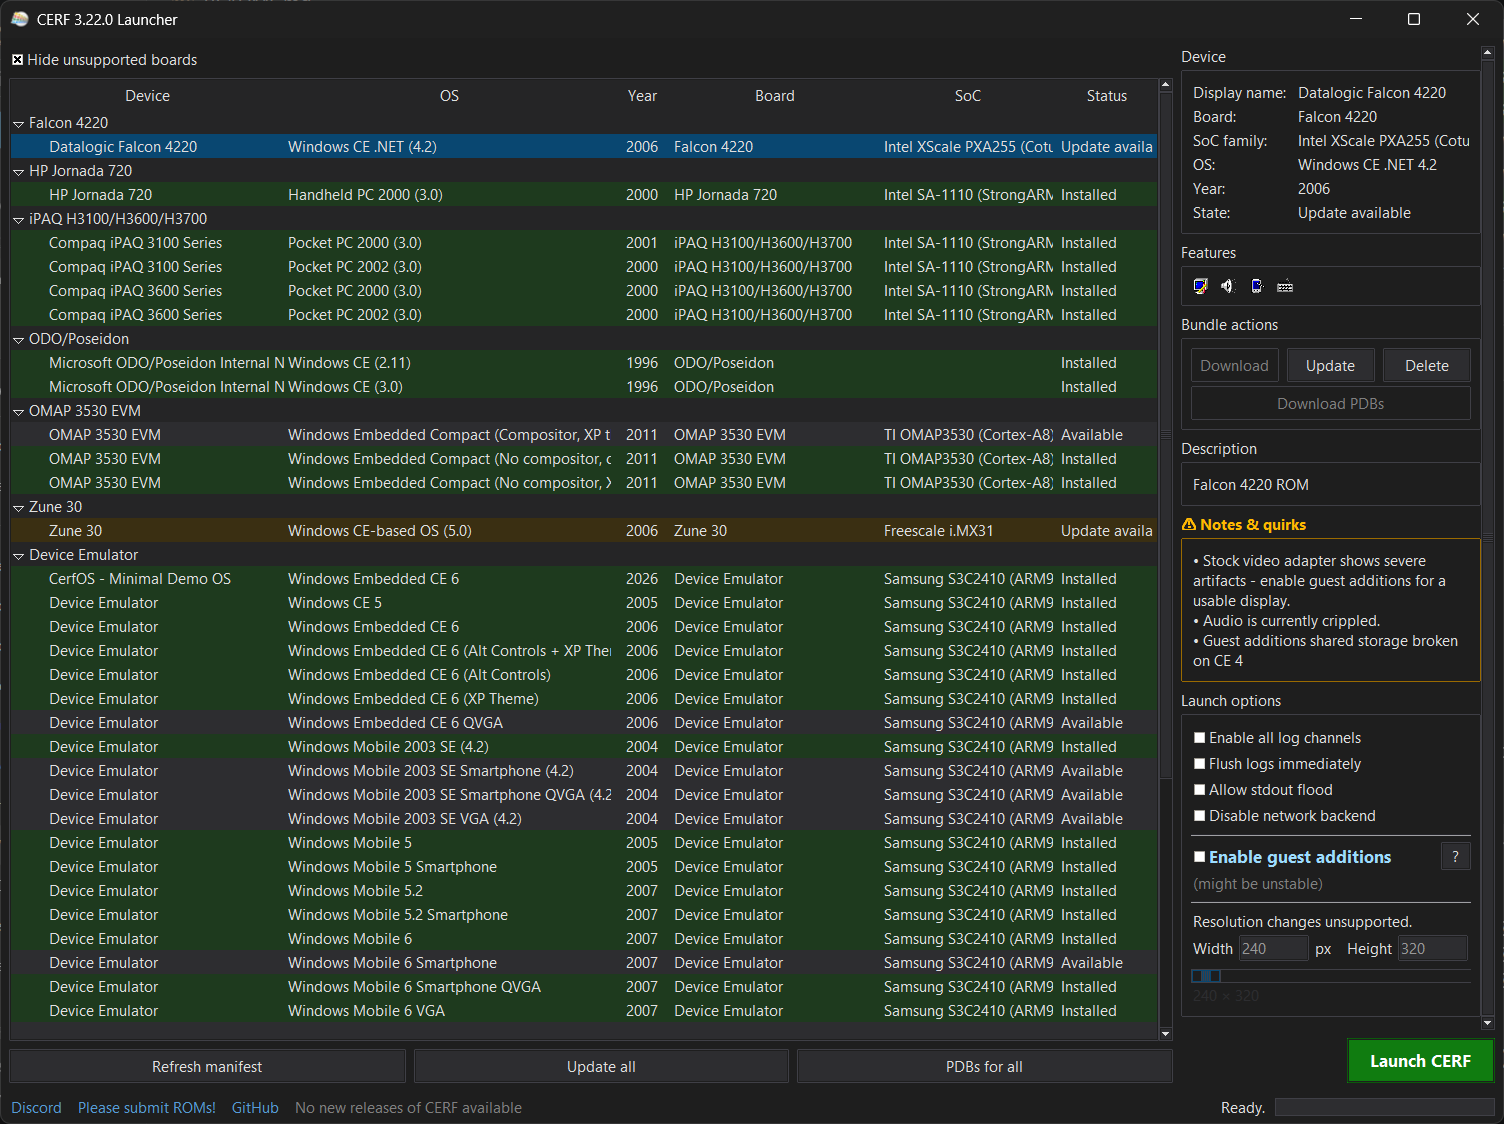
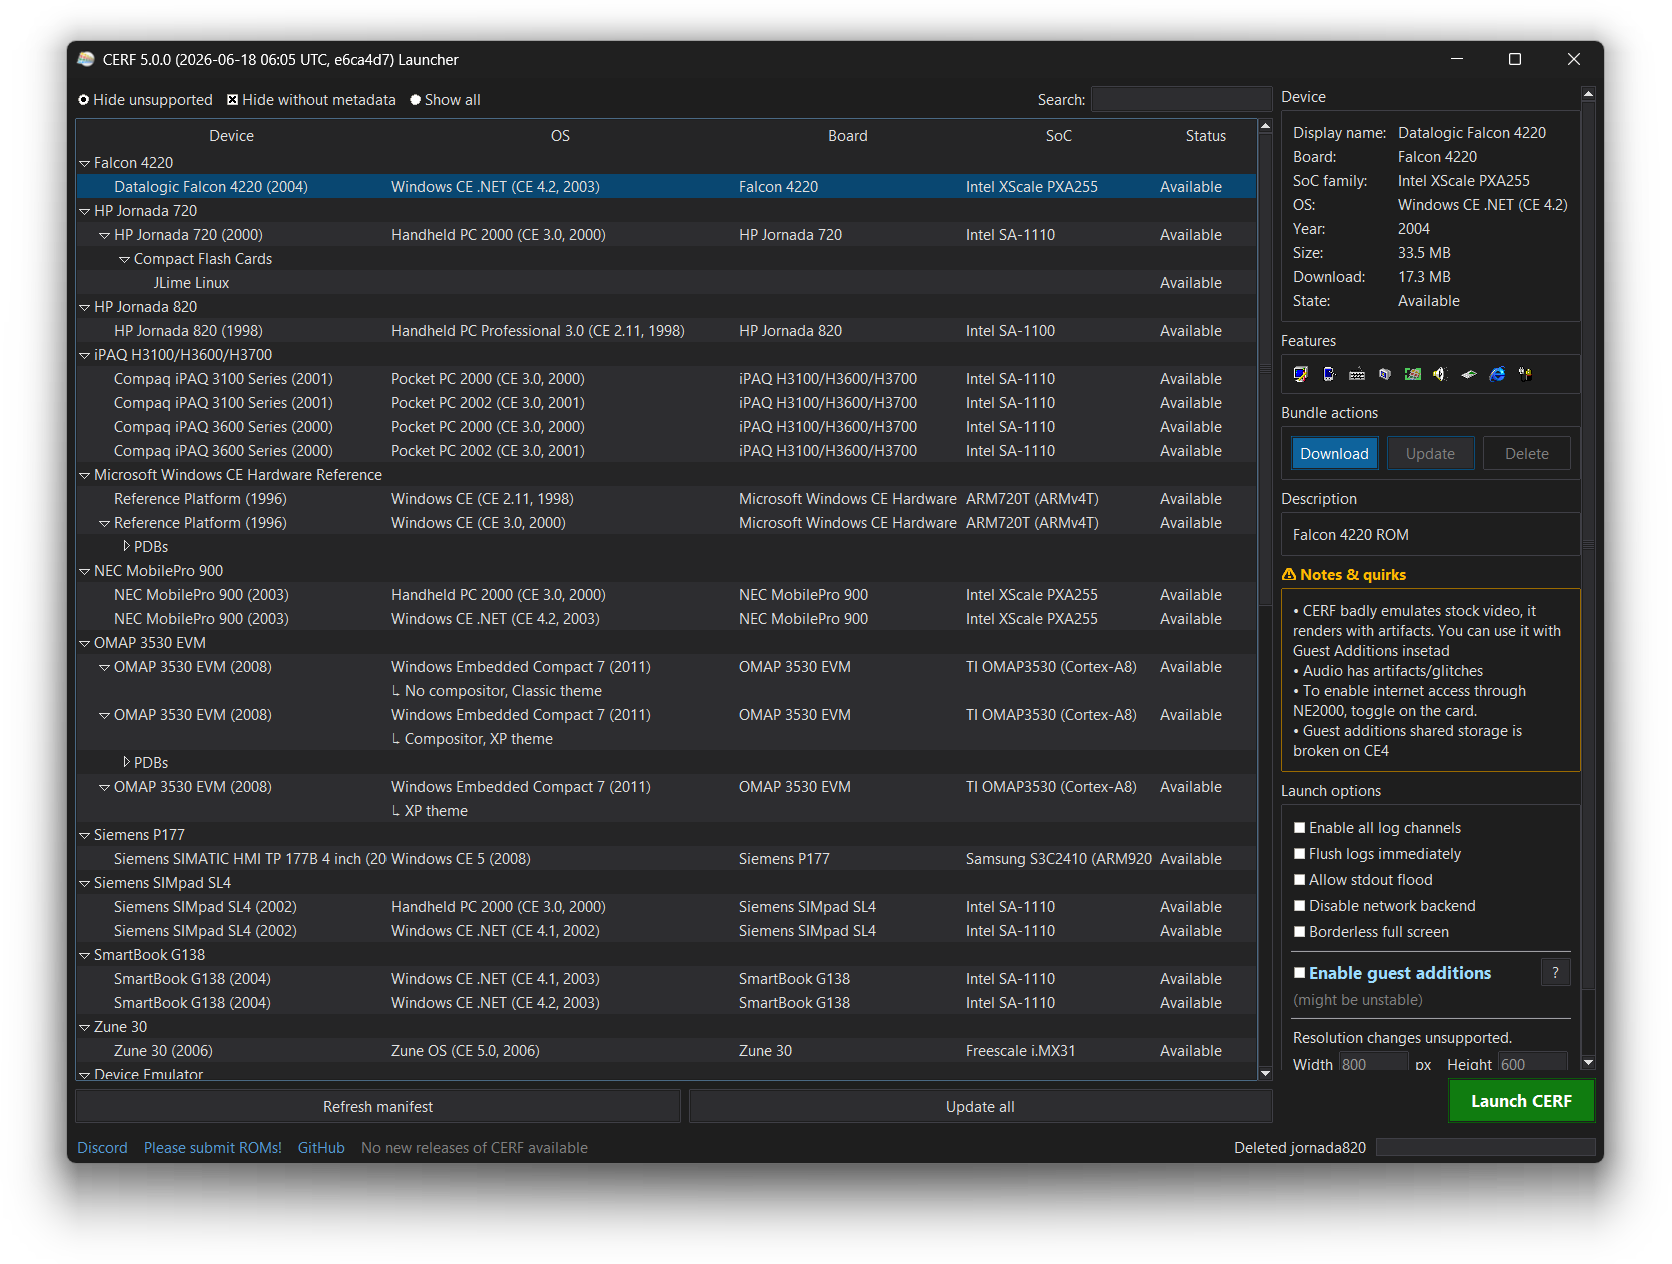
guest-additions: configurable display DPI
cerf_guest reports display DPI by priority: emulator override
(kFbRegLogicalDpi), ROM registry LogicalPixelsX/Y, then 96. Set the override
via --screen-dpi, cerf.json board.configurable_screen_dpi, the in-emulator
change-resolution dialog (new Display DPI box), or the launcher's Override
DPI control.

diff --git a/launcher/launch_options.py b/launcher/launch_options.py
@@ -7,7 +7,7 @@ from tkinter import ttk
 from typing import List, Optional
 
 from device_state import DeviceBundle
-from ui_dialogs import show_error, show_guest_additions_help
+from ui_dialogs import show_error, show_guest_additions_help, show_dpi_help
 from ui_theme import BG_FIELD, FG_DIM
 
 
@@ -40,6 +40,11 @@ RES_PRESETS = [
     (3440, 1440),               #  UW-QHD
     (3840, 2160),               #  4K UHD
 ]
+
+# DPI override slider bounds. The entry stays free-form so any value (including
+# extreme ones) is typable past the slider's range.
+DPI_SLIDER_MIN = 48
+DPI_SLIDER_MAX = 480
 
 
 class LaunchOptionsPanel:
@@ -115,6 +120,36 @@ class LaunchOptionsPanel:
         self.var_height.trace_add("write", self._on_res_text_changed)
         self._sync_slider_to_text()
 
+        ttk.Separator(opts).grid(row=10, column=0, columnspan=3, sticky="ew", pady=6)
+        self.var_override_dpi = tk.BooleanVar(value=False)
+        self.var_dpi = tk.StringVar(value="96")
+        dpi_head = ttk.Frame(opts)
+        dpi_head.grid(row=11, column=0, columnspan=3, sticky="ew")
+        dpi_head.columnconfigure(0, weight=1)
+        self.dpi_check = ttk.Checkbutton(dpi_head, text="Override DPI",
+                                         variable=self.var_override_dpi,
+                                         command=self._refresh_dpi_state)
+        self.dpi_check.grid(row=0, column=0, sticky="w")
+        self.dpi_help_btn = ttk.Button(dpi_head, text="?", width=2, style="Help.TButton",
+                                       command=lambda: show_dpi_help(self._window))
+        self.dpi_help_btn.grid(row=0, column=1, sticky="e")
+
+        dpi_fields = ttk.Frame(opts)
+        dpi_fields.grid(row=12, column=0, columnspan=3, sticky="ew", pady=(2, 0))
+        dpi_fields.columnconfigure(3, weight=1)
+        ttk.Label(dpi_fields, text="DPI").grid(row=0, column=0, sticky="w")
+        self.dpi_entry = ttk.Entry(dpi_fields, textvariable=self.var_dpi, width=8,
+                                   validate="key", validatecommand=numeric_vcmd)
+        self.dpi_entry.grid(row=0, column=1, sticky="w", padx=(4, 12))
+        self._dpi_sync_guard = False
+        self.dpi_slider = ttk.Scale(dpi_fields, from_=DPI_SLIDER_MIN, to=DPI_SLIDER_MAX,
+                                    orient="horizontal", style="Res.Horizontal.TScale",
+                                    command=self._on_dpi_slider)
+        self.dpi_slider.grid(row=1, column=0, columnspan=4, sticky="ew", pady=(8, 0))
+        self.var_dpi.trace_add("write", self._on_dpi_text_changed)
+        self._sync_dpi_slider_to_text()
+        self._refresh_dpi_state()
+
     def set_device(self, device: Optional[DeviceBundle]) -> None:
         self._device = device
         self.refresh_resolution_state()
@@ -139,6 +174,11 @@ class LaunchOptionsPanel:
             if h is None:
                 return None
             argv += [f"--screen-width={w}", f"--screen-height={h}"]
+        if guest_additions and self.var_override_dpi.get():
+            dpi = self._dpi_value()
+            if dpi is None:
+                return None
+            argv.append(f"--screen-dpi={dpi}")
         return argv
 
     def _is_optional_uint(self, value: str) -> bool:
@@ -186,6 +226,7 @@ class LaunchOptionsPanel:
         self.res_preset_label.config(foreground=FG_DIM if enabled else BG_FIELD)
 
     def refresh_resolution_state(self) -> None:
+        self._refresh_dpi_state()
         device = self._device
         if self.var_guest_additions.get():
             self.res_note.config(text="CERF display driver resolution:")
@@ -246,3 +287,49 @@ class LaunchOptionsPanel:
                 self.res_preset_label.config(text=f"Custom — {w} × {h}")
         finally:
             self._res_sync_guard = False
+
+    def _refresh_dpi_state(self) -> None:
+        ga = self.var_guest_additions.get()
+        self.dpi_check.config(state="normal" if ga else "disabled")
+        self.dpi_help_btn.config(state="normal" if ga else "disabled")
+        fields = "normal" if (ga and self.var_override_dpi.get()) else "disabled"
+        self.dpi_entry.config(state=fields)
+        self.dpi_slider.config(state=fields)
+
+    def _dpi_value(self) -> Optional[int]:
+        raw = self.var_dpi.get().strip()
+        try:
+            value = int(raw, 10)
+        except ValueError:
+            value = 0
+        if value < 1:
+            show_error(self._window, "Invalid DPI",
+                       "DPI must be a positive whole number.")
+            self.dpi_entry.focus_set()
+            return None
+        return value
+
+    def _on_dpi_slider(self, value: str) -> None:
+        if self._dpi_sync_guard:
+            return
+        self._dpi_sync_guard = True
+        try:
+            self.var_dpi.set(str(int(round(float(value)))))
+        finally:
+            self._dpi_sync_guard = False
+
+    def _on_dpi_text_changed(self, *_args: object) -> None:
+        if self._dpi_sync_guard:
+            return
+        self._sync_dpi_slider_to_text()
+
+    def _sync_dpi_slider_to_text(self) -> None:
+        try:
+            dpi = int(self.var_dpi.get().strip())
+        except ValueError:
+            return
+        self._dpi_sync_guard = True
+        try:
+            self.dpi_slider.set(max(DPI_SLIDER_MIN, min(DPI_SLIDER_MAX, dpi)))
+        finally:
+            self._dpi_sync_guard = False

diff --git a/cerf/host/change_resolution_dialog.cpp b/cerf/host/change_resolution_dialog.cpp
@@ -22,21 +22,23 @@ namespace {
 constexpr wchar_t kClass[] = L"CerfChangeResolutionDlg";
 
 constexpr int kClientW = 380;
-constexpr int kClientH = 300;
+constexpr int kClientH = 380;
 
 /* Group frames (caption sits on the top edge). */
 constexpr RECT kGroupRes   = { 14, 12,  366, 82  };
-constexpr RECT kGroupReset = { 14, 96,  366, 244 };
+constexpr RECT kGroupDpi   = { 14, 92,  366, 150 };
+constexpr RECT kGroupReset = { 14, 160, 366, 322 };
 
 constexpr uint32_t kMinDim = 64;
 constexpr uint32_t kMaxDim = 8192;
 
 enum : int {
-    IDC_W_EDIT  = 4001,
-    IDC_H_EDIT  = 4002,
-    IDC_RB_NONE = 4003,
-    IDC_RB_SOFT = 4004,
-    IDC_RB_HARD = 4005,
+    IDC_W_EDIT   = 4001,
+    IDC_H_EDIT   = 4002,
+    IDC_RB_NONE  = 4003,
+    IDC_RB_SOFT  = 4004,
+    IDC_RB_HARD  = 4005,
+    IDC_DPI_EDIT = 4006,
 };
 
 }  /* namespace */
@@ -73,15 +75,19 @@ void ChangeResolutionDialog::BuildControls(HWND hwnd) {
     HWND he = mk(L"EDIT", L"", WS_BORDER | WS_TABSTOP | ES_NUMBER,
                  256, 39, 90, 24, IDC_H_EDIT);
 
+    mk(L"STATIC", L"DPI:", 0, 28, 121, 50, 18, 0);
+    HWND de = mk(L"EDIT", L"", WS_BORDER | WS_TABSTOP | ES_NUMBER,
+                 84, 118, 90, 24, IDC_DPI_EDIT);
+
     mk(L"STATIC",
        L"Windows CE ≤ 3 needs at least a soft reset to use the new "
-       L"resolution.",
-       0, 28, 116, 324, 40, 0);
+       L"resolution. A DPI change requires a reset.",
+       0, 28, 178, 324, 52, 0);
     mk(L"BUTTON", L"Do not reset",
-       BS_OWNERDRAW | WS_GROUP | WS_TABSTOP, 28, 162, 320, 24, IDC_RB_NONE);
-    mk(L"BUTTON", L"Soft reset", BS_OWNERDRAW | WS_TABSTOP, 28, 190, 320, 24,
+       BS_OWNERDRAW | WS_GROUP | WS_TABSTOP, 28, 236, 320, 24, IDC_RB_NONE);
+    mk(L"BUTTON", L"Soft reset", BS_OWNERDRAW | WS_TABSTOP, 28, 264, 320, 24,
        IDC_RB_SOFT);
-    mk(L"BUTTON", L"Hard reset", BS_OWNERDRAW | WS_TABSTOP, 28, 218, 320, 24,
+    mk(L"BUTTON", L"Hard reset", BS_OWNERDRAW | WS_TABSTOP, 28, 292, 320, 24,
        IDC_RB_HARD);
 
     mk(L"BUTTON", L"OK", BS_DEFPUSHBUTTON | WS_TABSTOP,
@@ -100,12 +106,18 @@ void ChangeResolutionDialog::BuildControls(HWND hwnd) {
     _snwprintf_s(buf, _TRUNCATE, L"%u", fb.Height());
     SetWindowTextW(he, buf);
 
+    auto& devcfg = emu_.Get<DeviceConfig>();
+    _snwprintf_s(buf, _TRUNCATE, L"%u",
+                 devcfg.screen_dpi ? devcfg.screen_dpi : 96u);
+    SetWindowTextW(de, buf);
+
     reset_choice_ = 0;
 }
 
 void ChangeResolutionDialog::PaintGroups(HDC dc) {
     const bool dark = emu_.Get<HostDarkMode>().IsDark();
     PaintGroup(dc, kGroupRes,   L"Resolution",   dark);
+    PaintGroup(dc, kGroupDpi,   L"Display DPI",  dark);
     PaintGroup(dc, kGroupReset, L"Reset device", dark);
 }
 
@@ -200,10 +212,19 @@ bool ChangeResolutionDialog::Apply(HWND hwnd) {
         return false;
     }
 
+    BOOL okd = FALSE;
+    const uint32_t dpi = GetDlgItemInt(hwnd, IDC_DPI_EDIT, &okd, FALSE);
+    if (!okd || dpi < 1) {
+        MessageBoxW(hwnd, L"Enter a DPI value of at least 1.",
+                    L"Change resolution", MB_OK | MB_ICONWARNING);
+        return false;
+    }
+
     auto& dc = emu_.Get<DeviceConfig>();
     dc.board_configurable_screen_width    = w;
     dc.board_configurable_screen_height   = h;
     dc.board_configurable_screen_explicit = true;
+    dc.screen_dpi                         = dpi;
 
     auto& win = emu_.Get<HostWindow>();
     if (reset_choice_ == 1) {

diff --git a/ce_apps/cerf_guest/cerf_ddgpe.cpp b/ce_apps/cerf_guest/cerf_ddgpe.cpp
@@ -201,13 +201,33 @@ BOOL CerfDDGPE::IsPaletteSettable() {
     return (g_FbBpp <= 8);
 }
 
+static ULONG CerfReadGpeDpi(const wchar_t* value_name) {
+    HKEY hk;
+    ULONG dpi = 0;
+    if (RegOpenKeyExW(HKEY_LOCAL_MACHINE, L"Drivers\\Display\\GPE", 0, 0, &hk)
+        == ERROR_SUCCESS) {
+        DWORD type = 0, data = 0, sz = sizeof(data);
+        if (RegQueryValueExW(hk, value_name, NULL, &type, (LPBYTE)&data, &sz)
+                == ERROR_SUCCESS && type == REG_DWORD)
+            dpi = data;
+        RegCloseKey(hk);
+    }
+    return dpi;
+}
+
 BOOL CerfDDGPE::GetScreenDimensions(GPEScreenProps* pProps) {
     CERF_LOG_DEV("cerf_guest: GPE::GetScreenDimensions");
     if (!pProps) return FALSE;
-    pProps->ulHorzSize   = (g_FbWidth  * 254) / 96 / 10;
-    pProps->ulVertSize   = (g_FbHeight * 254) / 96 / 10;
-    pProps->ulLogPixelsX = 96;
-    pProps->ulLogPixelsY = 96;
+    /* DPI priority: 1) emulator override (kFbRegLogicalDpi), 2) the ROM's own
+       registry DPI (what the stock GPE lib would read), 3) 96. */
+    ULONG dpiX = g_FbDpi ? g_FbDpi : CerfReadGpeDpi(L"LogicalPixelsX");
+    ULONG dpiY = g_FbDpi ? g_FbDpi : CerfReadGpeDpi(L"LogicalPixelsY");
+    if (!dpiX) dpiX = 96;
+    if (!dpiY) dpiY = 96;
+    pProps->ulHorzSize   = (g_FbWidth  * 254) / dpiX / 10;
+    pProps->ulVertSize   = (g_FbHeight * 254) / dpiY / 10;
+    pProps->ulLogPixelsX = dpiX;
+    pProps->ulLogPixelsY = dpiY;
     pProps->ulAspectX    = 36;
     pProps->ulAspectY    = 36;
     pProps->ulAspectXY   = 51;

diff --git a/launcher/ui_dialogs.py b/launcher/ui_dialogs.py
@@ -87,6 +87,23 @@ def confirm_rom_license(parent: tk.Misc, display_name: str) -> bool:
     )
 
 
+def show_dpi_help(parent: tk.Misc) -> None:
+    show_info(
+        parent,
+        "Display DPI override",
+        "Overrides the logical DPI (pixels-per-inch) the CERF guest display "
+        "driver reports to the OS. It changes what the OS believes the screen "
+        "density is — it most likely causes rendering artifacts and broken "
+        "graphics.\n\n"
+        "Known behaviour:\n"
+        "• Restores VGA (2×) mode on Device Emulator ROMs.\n"
+        "• Scales readable / printable text (documents, web pages) on older "
+        "CE versions.\n"
+        "• Works best on Alt-Controls (touch-style) ROMs.\n\n"
+        "Takes effect on the next guest reset. Requires guest additions."
+    )
+
+
 def show_guest_additions_help(parent: tk.Misc) -> None:
     """Show the Guest Additions feature banner in a borderless-content window.
     Falls back to nothing if the banner asset can't be located."""

diff --git a/cerf/core/config_loader.cpp b/cerf/core/config_loader.cpp
@@ -96,6 +96,12 @@ void LoadBoard(const json& root, DeviceConfig& config, const std::string& path) 
         config.board_configurable_screen_height = (uint32_t)n;
         config.board_configurable_screen_explicit = true;
     }
+    if (b.contains("configurable_screen_dpi")) {
+        int n = ReadOptInt(b, "configurable_screen_dpi", path, "board");
+        if (n < 1)
+            Fatal(path, "board.configurable_screen_dpi must be >= 1");
+        config.screen_dpi = (uint32_t)n;
+    }
 }
 
 /* Top-level device-feature flags (not board hardware): guest additions and
@@ -310,6 +316,10 @@ void ConfigLoader::LoadInto(DeviceConfig& config) {
             config.board_configurable_screen_height = (uint32_t)n;
             config.board_configurable_screen_explicit = true;
             config.adopt_guest_additions_resolution_for_host_screen = false;
+        } else if (strncmp(a, kArgScreenDpi, sizeof(kArgScreenDpi) - 1) == 0) {
+            int n = atoi(a + sizeof(kArgScreenDpi) - 1);
+            if (n < 1) Fatal("(command line)", "--screen-dpi must be >= 1");
+            config.screen_dpi = (uint32_t)n;
         } else if (strncmp(a, kArgShareFolder, sizeof(kArgShareFolder) - 1) == 0) {
             config.share_folder = a + sizeof(kArgShareFolder) - 1;
         } else if (strcmp(a, kArgFullScreen) == 0) {

diff --git a/cerf/core/device_config.h b/cerf/core/device_config.h
@@ -45,6 +45,11 @@ struct DeviceConfig : public Service {
     uint32_t board_configurable_screen_width  = 800;
     uint32_t board_configurable_screen_height = 600;
 
+    /* Guest-additions display DPI override (logical pixels/inch) from
+       --screen-dpi / cerf.json board.configurable_screen_dpi. 0 = no override:
+       the guest driver then falls back to the ROM's registry DPI, then 96. */
+    uint32_t screen_dpi = 0;
+
     /* True when the configurable screen size came from cerf.json
        board.configurable_screen_* or --screen-width/height (not the bare
        default above). The host window uses this to let an explicit size win

diff --git a/cerf/peripherals/cerf_virt/cerf_virt_fb_regs.h b/cerf/peripherals/cerf_virt/cerf_virt_fb_regs.h
@@ -23,5 +23,8 @@ const uint32_t kFbRegPrimaryReserve = 0x20u;  /* byte span reserved at the regio
                                                  head for the re-mode-growable
                                                  primary; the driver's offscreen
                                                  video heap must start past it. */
+const uint32_t kFbRegLogicalDpi  = 0x24u;  /* DPI override (LOGPIXELSX/Y) the guest
+                                              driver reports; 0 = no override, guest
+                                              falls back to registry then 96. */
 
 }  /* namespace CerfVirt */

diff --git a/ce_apps/cerf_guest/main.cpp b/ce_apps/cerf_guest/main.cpp
@@ -24,6 +24,7 @@ ULONG g_FbWidth   = 0;
 ULONG g_FbHeight  = 0;
 ULONG g_FbBpp     = 0;
 ULONG g_FbStride  = 0;
+ULONG g_FbDpi     = 0;
 ULONG g_FbMemPa   = 0;
 ULONG g_FbMemTotal = 0;   /* total host-backed region bytes (kFbRegMemSizeTotal);
                              region tail past the primary = DDraw video memory. */
@@ -61,6 +62,7 @@ void CerfReadFbRegs(void) {
     g_FbMemPa   = s_fb_regs[5];   /* kFbRegMemBasePa   (0x14 >> 2) */
     g_FbMemTotal = s_fb_regs[7];  /* kFbRegMemSizeTotal (0x1C >> 2) */
     g_FbPrimaryReserve = s_fb_regs[8];  /* kFbRegPrimaryReserve (0x20 >> 2) */
+    g_FbDpi      = s_fb_regs[9];  /* kFbRegLogicalDpi (0x24 >> 2) */
 }
 
 BOOL CerfMapGpeCmd(void) {

diff --git a/cerf/peripherals/cerf_virt/cerf_virt_framebuffer_regs.cpp b/cerf/peripherals/cerf_virt/cerf_virt_framebuffer_regs.cpp
@@ -19,6 +19,7 @@ using CerfVirt::kFbRegMemBasePa;
 using CerfVirt::kFbRegPresent;
 using CerfVirt::kFbRegMemSizeTotal;
 using CerfVirt::kFbRegPrimaryReserve;
+using CerfVirt::kFbRegLogicalDpi;
 
 class CerfVirtFramebufferRegs : public Peripheral {
 public:
@@ -48,6 +49,7 @@ public:
             case kFbRegPresent:   return 0u;
             case kFbRegMemSizeTotal: return fb_->RegionBytes();
             case kFbRegPrimaryReserve: return fb_->PrimaryReserveBytes();
+            case kFbRegLogicalDpi: return emu_.Get<DeviceConfig>().screen_dpi;
             default:              return 0u;
         }
     }

diff --git a/ce_apps/cerf_guest/cerf_ddgpe.h b/ce_apps/cerf_guest/cerf_ddgpe.h
@@ -17,6 +17,7 @@ extern "C" void  CerfUnmapFbWindow(void* va);
 extern "C" void CerfPublishCursor(const void* mask_bits, int stride,
                                   int cx, int cy, int xhot, int yhot, BOOL visible);
 extern ULONG g_FbWidth, g_FbHeight, g_FbBpp, g_FbStride, g_FbMemTotal, g_FbPrimaryReserve;
+extern ULONG g_FbDpi;   /* emulator DPI override (kFbRegLogicalDpi); 0 = none */
 
 /* RGB formats the host blitter reads/writes directly: 16/24/32bpp. */
 inline bool CerfConvertibleFmt(EGPEFormat f) {

diff --git a/cerf/core/cli_helpers.cpp b/cerf/core/cli_helpers.cpp
@@ -17,6 +17,7 @@ void PrintUsage(const char* prog) {
     printf("  --disable-network        Force-disable network backend\n");
     printf("  --screen-width=N         Override device cerf.json board.configurable_screen_width\n");
     printf("  --screen-height=N        Override device cerf.json board.configurable_screen_height\n");
+    printf("  --screen-dpi=N           Force guest display DPI (logical px/inch; guest-additions only)\n");
     printf("  --guest-additions        Inject CERF guest-additions DLL into the ROM\n");
     printf("                           (replaces matching modules with CERF-built equivalents)\n");
     printf("  --share-folder=PATH      Pre-enable the guest-additions shared folder on a host\n");

diff --git a/cerf/core/main_config.cpp b/cerf/core/main_config.cpp
@@ -19,6 +19,7 @@ bool ParseCerfArgs(int argc, char* argv[], CerfConfig& cfg) {
             Log::SetAllowFlood(true);
         } else if (strncmp(argv[i], kArgScreenWidth, sizeof(kArgScreenWidth) - 1) == 0 ||
                    strncmp(argv[i], kArgScreenHeight, sizeof(kArgScreenHeight) - 1) == 0 ||
+                   strncmp(argv[i], kArgScreenDpi, sizeof(kArgScreenDpi) - 1) == 0 ||
                    strncmp(argv[i], kArgShareFolder, sizeof(kArgShareFolder) - 1) == 0 ||
                    strncmp(argv[i], kArgBoot, sizeof(kArgBoot) - 1) == 0 ||
                    strncmp(argv[i], kArgBootAnim, sizeof(kArgBootAnim) - 1) == 0 ||